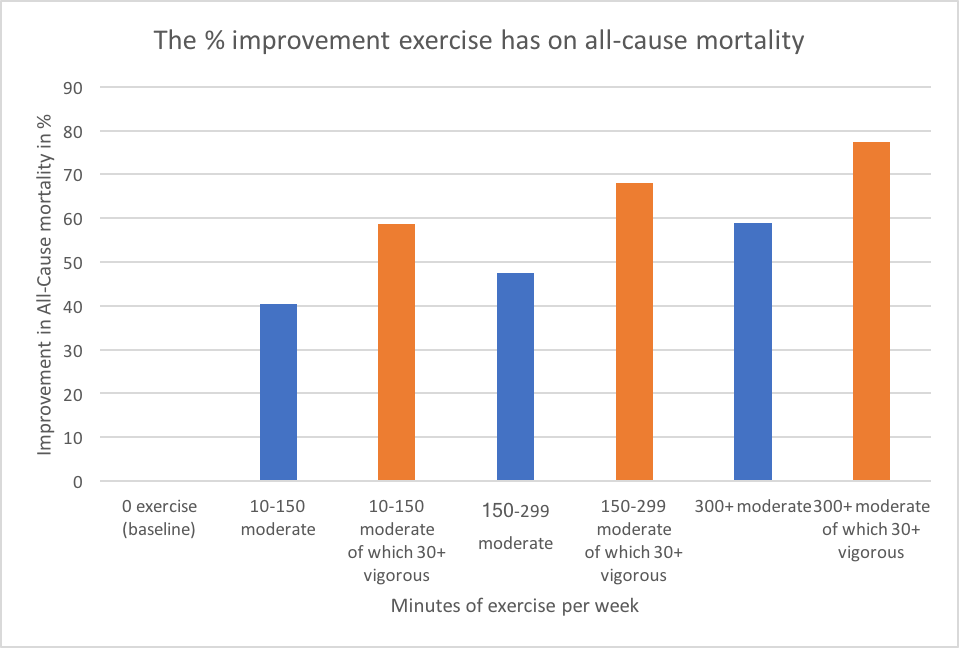
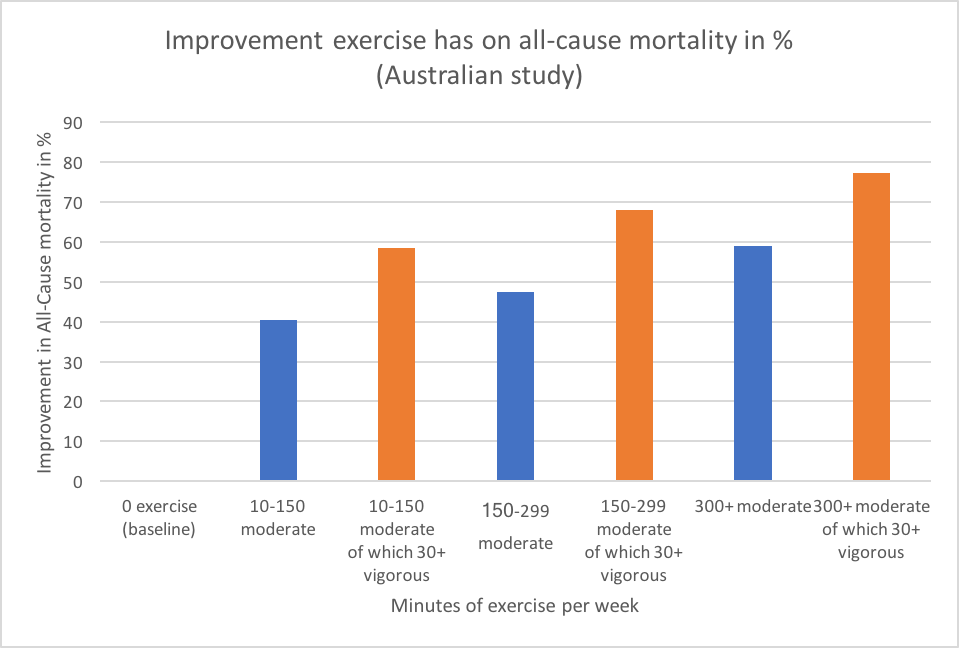
Exercise and ACH improvement

diff --git a/2.5.3 - live longer and healthier - hormesis.md b/2.5.3 - live longer and healthier - hormesis.md
@@ -98,7 +98,7 @@ In the above study 'vigorous' was defined as 6 or more metabolic equivalents (ME
 
 Another study that did a meta analysis of 6 studies across the US and Europe[^ See [Leisure time physical activity and mortality: a detailed pooled analysis of the dose-response relationship.](https://www.ncbi.nlm.nih.gov/pubmed/25844730)] and found similar results:
 
-<<-- TODO: Graph of minutes vs benefit -->>
+![Effect of exercise on all cause mortality](./assets/exercise-per-week-and-ach-eur.png)
 
 | Exercise | Benefit |
 | ------------ | --------- | 
